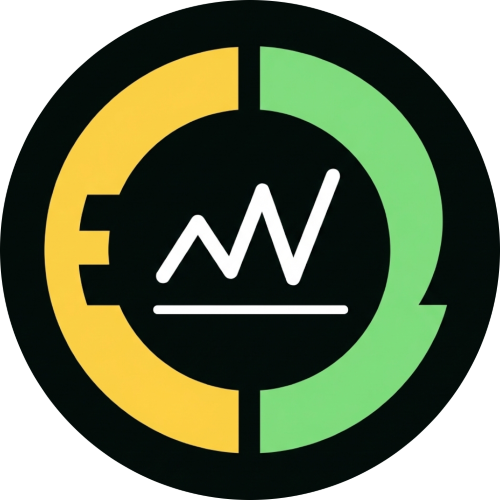
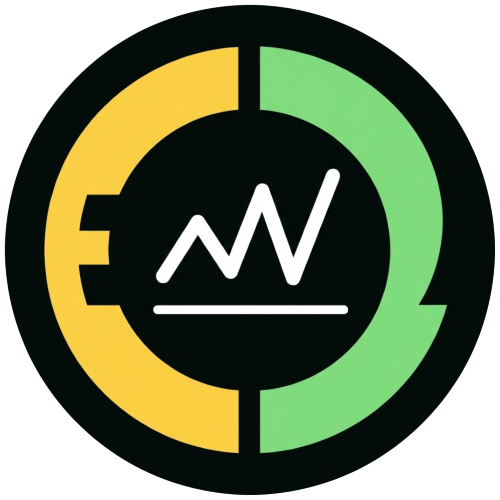
2026-01-24

diff --git a/README.md b/README.md
@@ -45,3 +45,6 @@ To ensure accuracy for Japanese and global users, this extension uses `Intl.Segm
 
 ### 0.0.2
 - Refined README.md
+
+### 0.0.3
+- Refined App Icon
